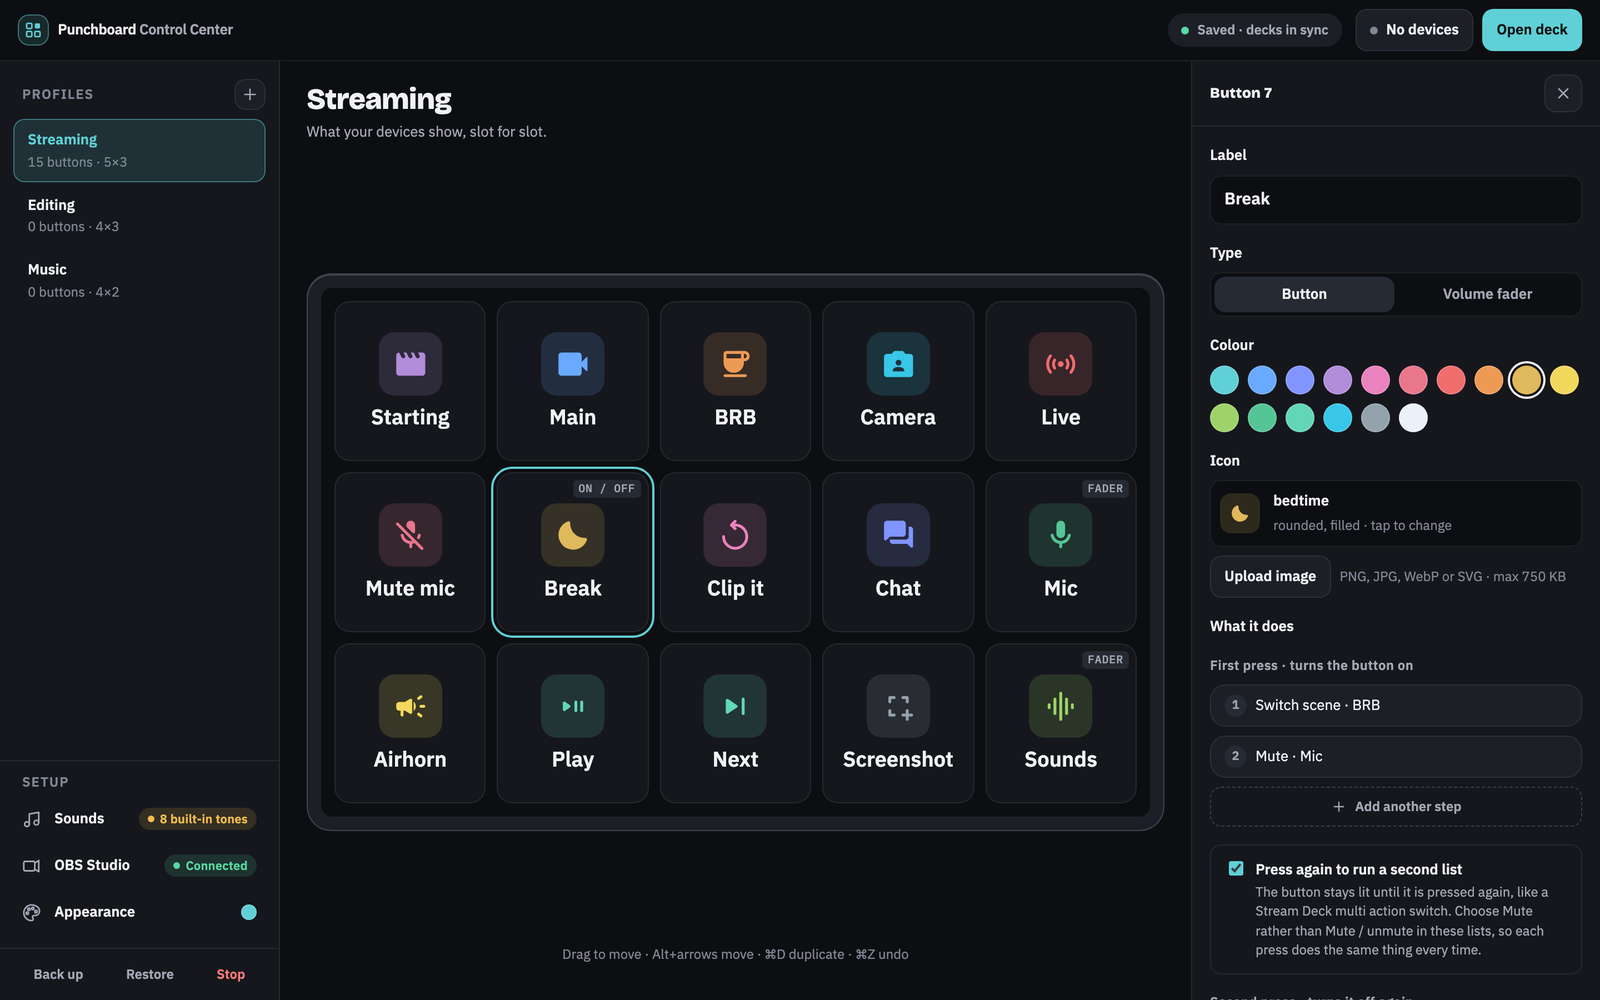
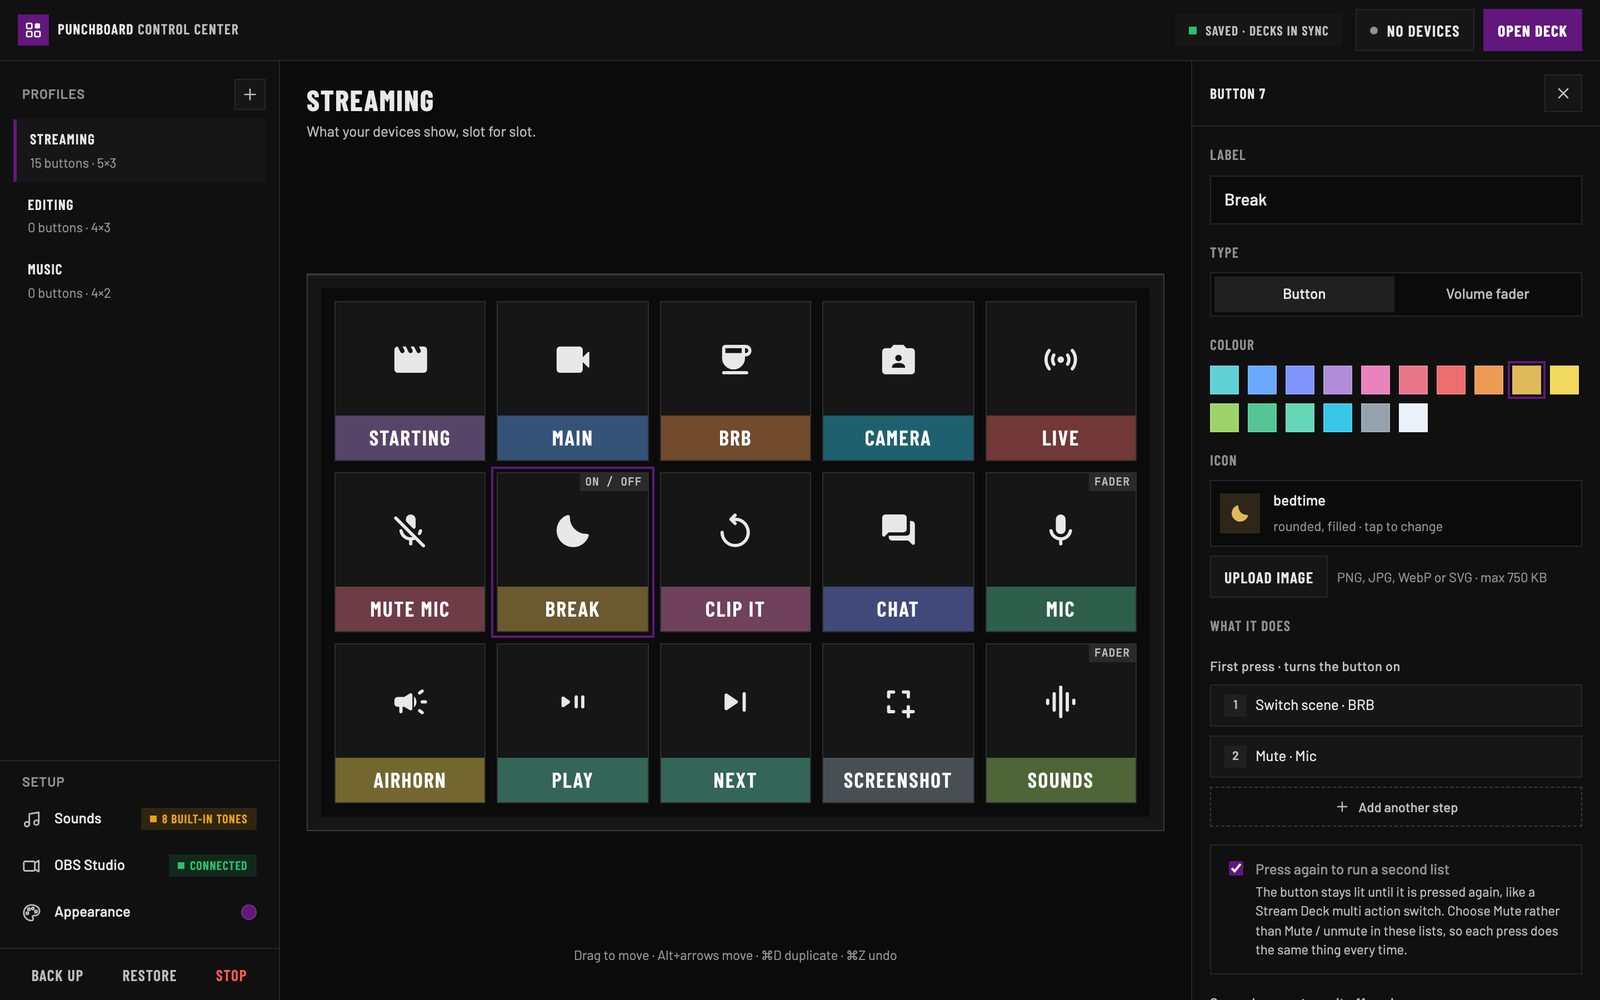
README screenshots in the Broadcast theme; option sentences no longer shout in Broadcast

diff --git a/public/themes.css b/public/themes.css
@@ -381,3 +381,12 @@ html[data-theme="broadcast"] {
 [data-theme="broadcast"] .deck-bar { background: #111111; }
 [data-theme="broadcast"] .deck-profiles button { border-color: var(--border); background: transparent; color: var(--text-muted); }
 [data-theme="broadcast"] .deck-profiles button.active { border-color: var(--border); border-bottom: 3px solid var(--accent); background: var(--surface-2); color: var(--text); }
+
+/* A checkbox option is a label too, but it holds sentences: themes that set
+   labels as display type would shout them. */
+[data-theme] .field > label.steps-switch {
+  font-family: inherit;
+  font-weight: inherit;
+  letter-spacing: normal;
+  text-transform: none;
+}

diff --git a/README.md b/README.md
@@ -36,9 +36,9 @@ On an iPad, tap **Full screen** on the deck. On an iPhone, use **Share › Add t
 - **Faders**: the computer's volume, Punchboard's sounds, or an OBS input.
 - **Macros**: several steps in a row, each with its own delay. A macro can also run a second list when pressed again, like a *Break* button that goes to BRB and mutes the mic, then comes back.
 
-Three looks, for the Control Center and every device at once: **Studio**, **Hardware** and **Broadcast**, each with your own accent colour.
+Three looks, for the Control Center and every device at once: **Broadcast**, **Hardware** and **Studio**, each with your own accent colour.
 
-<p align="center"><img src="docs/images/themes.png" alt="The same deck in the Studio, Hardware and Broadcast themes" width="820"></p>
+<p align="center"><img src="docs/images/themes.png" alt="The same deck in the Broadcast, Hardware and Studio themes" width="820"></p>
 
 On a Mac, key combinations and music controls need a one-time permission: **System Settings › Privacy & Security › Accessibility**, allow Punchboard.
 
